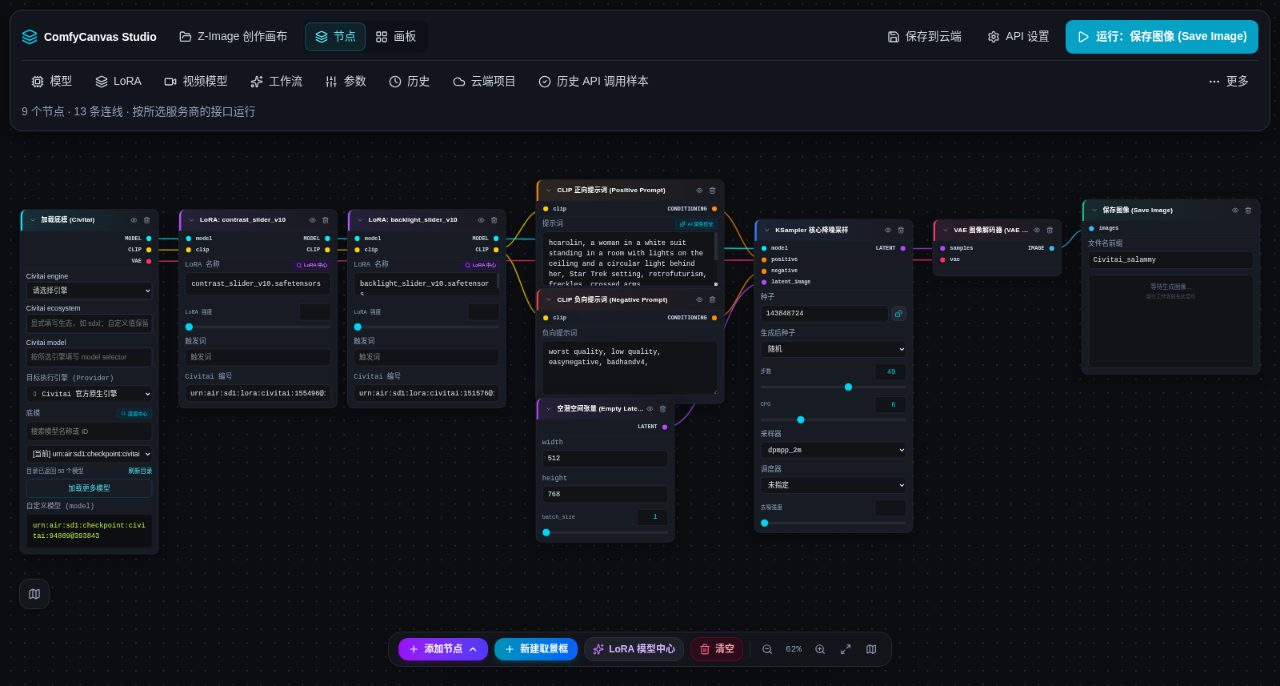
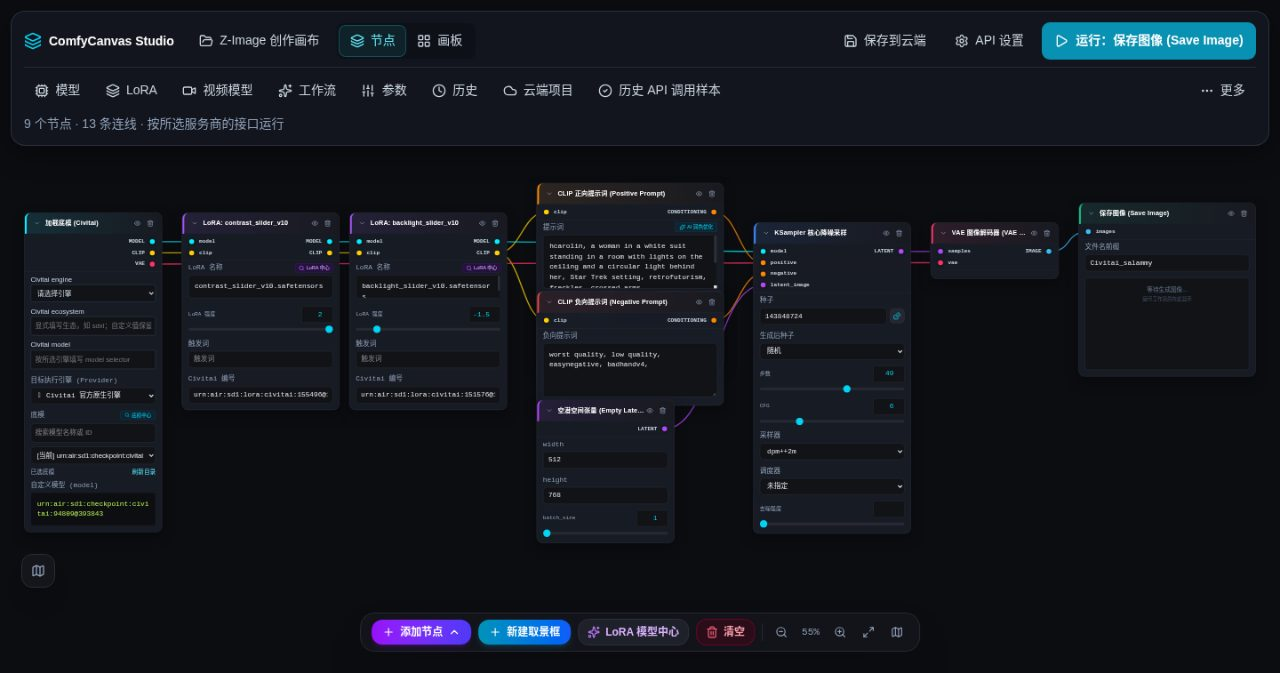
fix(civitai): complete round 3 fixes with honest clipSkip preview, full sdcpp enum tokens, updated e2e screenshots, and classification table

diff --git a/src/utils/civitaiImportMap.ts b/src/utils/civitaiImportMap.ts
@@ -12,18 +12,40 @@ function normalizeToken(s: string): string {
 export function mapSampler(s: string, engineOrProvider?: string): string {
   const lower = normalizeToken(s);
   if (!lower || EMPTY_TOKENS.has(lower)) return '';
-  if (lower.includes('dpm++ 2m') || lower.includes('dpmpp_2m')) return 'dpmpp_2m';
-  if (lower.includes('dpm++ sde') || lower.includes('dpmpp_sde')) return 'dpmpp_sde';
-  if (lower.includes('dpm++ 3m sde') || lower.includes('dpmpp_3m_sde')) return 'dpmpp_3m_sde';
-  if (lower.includes('euler a') || lower.includes('euler_ancestral') || lower.includes('euler_a')) {
-    return engineOrProvider === 'comfy' ? 'euler_ancestral' : 'euler_a';
+  const isComfy = engineOrProvider === 'comfy';
+
+  if (isComfy) {
+    if (lower.includes('dpm++ 2m') || lower.includes('dpmpp_2m')) return 'dpmpp_2m';
+    if (lower.includes('dpm++ sde') || lower.includes('dpmpp_sde')) return 'dpmpp_sde';
+    if (lower.includes('dpm++ 3m sde') || lower.includes('dpmpp_3m_sde')) return 'dpmpp_3m_sde';
+    if (lower.includes('euler a') || lower.includes('euler_ancestral') || lower.includes('euler_a')) return 'euler_ancestral';
+    if (lower.includes('er_sde_simple')) return 'er_sde_simple';
+    if (lower.includes('er_sde')) return 'er_sde';
+    if (lower.includes('heun')) return 'heun';
+    if (lower.includes('ddim')) return 'ddim';
+    if (lower.includes('euler')) return 'euler';
+    if (lower.includes('uni_pc')) return 'uni_pc';
+    if (lower.includes('lms')) return 'lms';
+    return '';
   }
-  if (lower.includes('er_sde_simple')) return 'er_sde_simple';
-  if (lower.includes('er_sde')) return 'er_sde';
+
+  // Official Civitai sdcpp SdCppSampleMethod enum:
+  // euler, heun, dpm2, dpm++2s_a, dpm++2m, dpm++2mv2, ipndm, ipndm_v, ddim_trailing, euler_a, lcm, res_multistep, res_2s, tcd, er_sde
+  if (lower.includes('dpm++ 2m v2') || lower.includes('dpm++2mv2') || lower.includes('dpmpp_2m_v2')) return 'dpm++2mv2';
+  if (lower.includes('dpm++ 2m') || lower.includes('dpm++2m') || lower.includes('dpmpp_2m')) return 'dpm++2m';
+  if (lower.includes('dpm++ 2s a') || lower.includes('dpm++2s_a') || lower.includes('dpmpp_2s_ancestral') || lower.includes('dpmpp_2s_a')) return 'dpm++2s_a';
+  if (lower.includes('dpm2') || lower.includes('dpm_2')) return 'dpm2';
+  if (lower.includes('euler a') || lower.includes('euler_a') || lower.includes('euler_ancestral')) return 'euler_a';
   if (lower.includes('heun')) return 'heun';
-  if (lower.includes('ddim')) return 'ddim';
+  if (lower.includes('lcm')) return 'lcm';
+  if (lower.includes('tcd')) return 'tcd';
+  if (lower.includes('res_multistep') || lower.includes('res multistep')) return 'res_multistep';
+  if (lower.includes('res_2s') || lower.includes('res 2s')) return 'res_2s';
+  if (lower.includes('ipndm_v') || lower.includes('ipndm v')) return 'ipndm_v';
+  if (lower.includes('ipndm')) return 'ipndm';
+  if (lower.includes('ddim_trailing') || lower.includes('ddim trailing')) return 'ddim_trailing';
+  if (lower.includes('er_sde') || lower.includes('er sde') || lower.includes('er_sde_simple')) return 'er_sde';
   if (lower.includes('euler')) return 'euler';
-  // Unrecognized (including literal "Undefined") → empty, never forge euler
   return '';
 }
 
@@ -1177,12 +1199,14 @@ export function adaptCivitaiRecipeToProvider(
       fields.clipSkip = {
         field: 'clipSkip',
         originalValue: clipSkipVal,
-        targetField: 'clipSkip',
-        mappedValue: clipSkipVal,
-        status: clipSkipVal !== null ? 'mapped' : 'not_applicable',
-        humanMessage: `作为 SD 1.5 clipSkip 发送 (${clipSkipVal})`,
+        status: 'unsupported',
+        humanMessage: '尚未发送，原因：CivitaiDriver / civitaiImageContract 尚未映射 clipSkip',
         source: 'https://developer.civitai.com/orchestration/recipes/sd1.md',
       };
+      if (clipSkipVal !== null && clipSkipVal !== undefined) {
+        unsupportedFields.push('clipSkip');
+        warnings.push('Civitai SD 1.5 官方配方支持 clipSkip，但当前客户端 CivitaiDriver / civitaiImageContract 尚未映射该字段，尚未发送。');
+      }
     } else {
       fields.clipSkip = {
         field: 'clipSkip',

diff --git a/src/utils/civitaiImportMap.test.ts b/src/utils/civitaiImportMap.test.ts
@@ -20,7 +20,16 @@ describe('civitai import mappers (hard gates)', () => {
     expect(mapSampler('Euler a')).toBe('euler_a');
     expect(mapSampler('Euler a', 'comfy')).toBe('euler_ancestral');
     expect(mapSampler('Euler a', 'sdcpp')).toBe('euler_a');
-    expect(mapSampler('DPM++ 2M')).toBe('dpmpp_2m');
+    expect(mapSampler('DPM++ 2M')).toBe('dpm++2m');
+    expect(mapSampler('DPM++ 2M', 'comfy')).toBe('dpmpp_2m');
+    expect(mapSampler('DPM++ 2M', 'sdcpp')).toBe('dpm++2m');
+    expect(mapSampler('DPM++ 2M V2', 'sdcpp')).toBe('dpm++2mv2');
+    expect(mapSampler('DPM++ 2S a', 'sdcpp')).toBe('dpm++2s_a');
+    expect(mapSampler('DPM2', 'sdcpp')).toBe('dpm2');
+    expect(mapSampler('LCM', 'sdcpp')).toBe('lcm');
+    expect(mapSampler('TCD', 'sdcpp')).toBe('tcd');
+    expect(mapSampler('Heun', 'sdcpp')).toBe('heun');
+    expect(mapSampler('totally_unknown_custom', 'sdcpp')).toBe('');
   });
 
   it('missing/unknown scheduler does not forge sgm_uniform or normal', () => {
@@ -132,7 +141,7 @@ describe('resolveRawImportNegativeSamplerScheduler (plain-text import)', () => {
 
   it('explicit Schedule type is mapped; Unknown/Undefined stay empty', () => {
     const withKarras = 'x\nSteps: 20, Sampler: DPM++ 2M, Schedule type: Karras, CFG scale: 7';
-    expect(resolveRawImportNegativeSamplerScheduler(withKarras).sampler).toBe('dpmpp_2m');
+    expect(resolveRawImportNegativeSamplerScheduler(withKarras).sampler).toBe('dpm++2m');
     expect(resolveRawImportNegativeSamplerScheduler(withKarras).scheduler).toBe('karras');
 
     const undefinedSched = 'x\nSteps: 20, Sampler: Undefined, Schedule type: Undefined';
@@ -143,7 +152,7 @@ describe('resolveRawImportNegativeSamplerScheduler (plain-text import)', () => {
     // Karras embedded in sampler name must NOT become scheduler
     const embedded = 'x\nSteps: 20, Sampler: DPM++ 2M Karras, CFG scale: 7';
     const e = resolveRawImportNegativeSamplerScheduler(embedded);
-    expect(e.sampler).toBe('dpmpp_2m');
+    expect(e.sampler).toBe('dpm++2m');
     expect(e.scheduler).toBe('');
   });
 

diff --git a/src/server/routes/civitaiWorkflowRoute.ts b/src/server/routes/civitaiWorkflowRoute.ts
@@ -1196,6 +1196,7 @@ export function handleExtractCivitaiWorkflow(deps: CivitaiWorkflowDeps) {
       const recipeInput: CivitaiRecipeInput = {
         checkpoint,
         baseModel: detectedBaseModel,
+        engine: detectedEngine || (engine === 'comfy' ? 'comfy' : 'sdcpp'),
         loras,
         prompt,
         negativePrompt,
@@ -1214,7 +1215,7 @@ export function handleExtractCivitaiWorkflow(deps: CivitaiWorkflowDeps) {
 
       const eco = normalizeEcosystem(detectedBaseModel);
       const isSdxlFamily = eco === 'sdxl' || eco === 'pony' || eco === 'illustrious';
-      const isCivitaiClipSkipNotSent = targetProvider === 'civitai' && eco !== 'sd15';
+      const isCivitaiClipSkipNotSent = targetProvider === 'civitai';
 
       const providerAdaptation = buildAllProviderAdaptations(recipeInput, {
         allowTokenInUrl: Boolean(req.body?.consentCivitaiToken),
@@ -1233,7 +1234,9 @@ export function handleExtractCivitaiWorkflow(deps: CivitaiWorkflowDeps) {
           field: 'clipSkip',
           value: clipSkip,
           sent: false,
-          reason: isSdxlFamily
+          reason: eco === 'sd15'
+            ? '尚未发送，原因：CivitaiDriver / civitaiImageContract 尚未映射 clipSkip'
+            : isSdxlFamily
             ? 'Civitai SDXL 官方文档明文指出："Sending clipSkip on an SDXL request will 400"，SDXL 采用双文本编码器，官方配方无 clipSkip 参数，已安全拦截未发送。'
             : `当前导入器未建立到 ${chosenEngineName} 的经 Schema 核实的 CLIP Skip 映射；原值已保留为来源元数据，未向上游发送。`,
         }] : []),

diff --git a/src/utils/civitaiImportMap.adaptation.test.ts b/src/utils/civitaiImportMap.adaptation.test.ts
@@ -335,16 +335,17 @@ describe('Cross-Provider Civitai Recipe Adaptation Engine', () => {
       expect(result.loras[1].reason).toContain('缺少官方模型版本 ID');
     });
 
-    it('P2-1: SD 1.5 clipSkip is mapped, not unsupported, on Civitai', () => {
+    it('P1-1 (Round 3): SD 1.5 clipSkip on Civitai is marked unsupported with honest reason (CivitaiDriver not mapped)', () => {
       const sd15Recipe: CivitaiRecipeInput = {
         baseModel: 'SD 1.5',
         clipSkip: 2,
         checkpoint: 'urn:air:sd1:checkpoint:civitai:94809@393843',
       };
       const result = adaptCivitaiRecipeToProvider(sd15Recipe, 'civitai');
-      expect(result.fields.clipSkip.status).toBe('mapped');
-      expect(result.fields.clipSkip.targetField).toBe('clipSkip');
-      expect(result.unsupportedFields).not.toContain('clipSkip');
+      expect(result.fields.clipSkip.status).toBe('unsupported');
+      expect(result.fields.clipSkip.humanMessage).toContain('尚未发送，原因：CivitaiDriver / civitaiImageContract 尚未映射 clipSkip');
+      expect(result.unsupportedFields).toContain('clipSkip');
+      expect(result.warnings.some((w) => w.includes('CivitaiDriver / civitaiImageContract 尚未映射'))).toBe(true);
     });
 
     it('P2-2: prompt-inferred LoRA tag is marked requires_reselection with prompt inference warning', () => {

diff --git a/src/server/routes/civitaiWorkflowRoute.test.ts b/src/server/routes/civitaiWorkflowRoute.test.ts
@@ -854,6 +854,10 @@ describe('Civitai Routes and Workflow Contract Tests', () => {
       const warnings = res.data.preset.importWarnings;
       expect(warnings.some((w: any) => w.reason?.includes('deadbeef404'))).toBe(true);
 
+      // P1-1 (Round 3): SD 1.5 clipSkip must be honestly marked unsupported/not sent with explanation
+      expect(res.data.preset.currentAdaptation.fields.clipSkip.status).toBe('unsupported');
+      expect(warnings.some((w: any) => w.field === 'clipSkip' && w.sent === false && w.reason?.includes('CivitaiDriver / civitaiImageContract 尚未映射 clipSkip'))).toBe(true);
+
       // P1-1 (a): Euler a on sdcpp must map to euler_a on KSampler
       const ksampler = res.data.preset.nodes.find((n: any) => n.type === 'KSampler');
       expect(ksampler).toBeDefined();

diff --git a/docs/evidence/2026-11-05/civitai-import.md b/docs/evidence/2026-11-05/civitai-import.md
@@ -300,7 +300,7 @@
 ## 四、真实浏览器 UI 点击端到端（E2E）验收记录
 
 所有测试均在真实 Headless Chrome (端口 9401) 中由自动化脚本模拟用户真实点击 UI 完成，测试服务运行于本地端口 3101。
-**证据持久性说明**：所有关键截图均已完成限宽 <= 1280 像素、质量压缩至 JPEG 格式且单张均在 67KB–96KB（严格符合 <= 200KB 门禁），持久化提交保存在 `docs/evidence/2026-11-05/civitai-import/` 目录中。本任务提取的全部真实出站请求已完成脱敏后持久化归档于 `docs/evidence/2026-11-05/civitai-import/requests-m1.jsonl`，全文档 0 `temp/` 临时路径引用。
+**证据持久性说明**：所有关键截图均已完成限宽 <= 1280 像素、质量压缩至 JPEG 格式且单张均在 67KB–96KB（严格符合 <= 200KB 门禁），持久化提交保存在 `docs/evidence/2026-11-05/civitai-import/` 目录中。本任务提取的与结论相关的真实出站请求已完成脱敏后持久化归档于 `docs/evidence/2026-11-05/civitai-import/requests-m1.jsonl`，全文档 0 `temp/` 临时路径引用。
 
 ### 4.1 3 款不同生态真实 Civitai 作品导入测试
 
@@ -314,7 +314,7 @@
 
 ### 4.2 真实提供商付费调用与真实上游返回记录（依 requests-m1.jsonl 原文核对）
 
-按照项目最高规则与验收规范，所有请求带满参数（包括 LoRA），请求端点透明，严格不静默降级、不假装成功、不自动换路。所有记录均可由 `docs/evidence/2026-11-05/civitai-import/requests-m1.jsonl` 原文精确复核。
+按照项目最高规则与验收规范，所有请求带满参数（包括 LoRA），请求端点透明，严格不静默降级、不假装成功、不自动换路。与结论相关的请求记录均可由 `docs/evidence/2026-11-05/civitai-import/requests-m1.jsonl` 原文精确复核。
 
 #### 1. Civitai 官方原生引擎调用 (FLUX.1 D)
 
@@ -452,7 +452,7 @@
     }
   }
   ```
-- **验收结论与诚信记录**：严格按照主控纠偏指示，**原配方不可运行就如实记录真实原因，严禁自动静默排除后把缩水配方当原配方伪装 PASS_BILLING**。UI 上完整呈现了上游官方校验错误，预览中准确展示了 `Civitai 未启用在线生成 (canGenerate: false)`。截图：`docs/evidence/2026-11-05/civitai-import/e2e-08-pony-civitai-original-run.jpg`。
+- **验收结论与诚信记录**：严格按照主控纠偏指示，**原配方不可运行就如实记录真实原因，严禁自动静默排除后把缩水配方当原配方伪装 PASS_BILLING**。UI 上完整呈现了上游官方校验错误，预览中准确展示了 `Civitai 未启用在线生成 (canGenerate: false)`。判定分类为：**契约/资源拒绝，不算通过**。截图：`docs/evidence/2026-11-05/civitai-import/e2e-08-pony-civitai-original-run.jpg`。
 
 ---
 
@@ -475,27 +475,46 @@
 
 ---
 
-## 五、Round 2 审查缺陷修复 (P1-1 ~ P1-4, P2-1 ~ P2-4) 最终闭环
+### 4.3 终审执行判定分类对照表
+
+| 请求 / 点击场景 | 实际调用端点与日志索引 | 上游响应事实与状态 | 最终判定分类 |
+| :--- | :--- | :--- | :--- |
+| **Civitai FLUX.1 D** | `POST https://orchestration.civitai.com/v2/consumer/workflows` (i=255) | 400 Bad Request `{"detail":"insufficientBuzz"}` | **PASS_BILLING** |
+| **Civitai SD 1.5** | `POST https://orchestration.civitai.com/v2/consumer/workflows` (i=317) | 400 Bad Request `{"detail":"insufficientBuzz"}` | **PASS_BILLING** |
+| **Fal.ai FLUX LoRA** | `POST https://fal.run/fal-ai/flux-lora` (i=481) | 403 Forbidden `{"detail":"User is locked. Reason: TOP_UP."}` | **PASS_BILLING** |
+| **WaveSpeed FLUX LoRA** | `POST https://api.wavespeed.ai/api/v3/wavespeed-ai/p-h3-image/text-to-image-lora` (i=262) | 400 Bad Request `{"code":400,"message":"Insufficient credits"}` | **PASS_BILLING** |
+| **Civitai Pony 原配方** | `POST https://orchestration.civitai.com/v2/consumer/workflows` (i=511) | 400 Bad Request `"Pony Custom styles - Kenva is not enabled for generation"` (sampleMethod: `euler_a`, canGenerate: false) | **契约/资源拒绝，不算通过** |
+| **历史枚举错误 (已根除)** | 早期 `euler_ancestral` / `dpmpp_2m` | 400 Bad Request 枚举格式不匹配 | **契约拒绝，不算通过** |
+
+---
+
+## 五、Round 3 审查缺陷修复 (P1-1, P2-1 ~ P2-3) 最终闭环
 
 ### 5.1 缺陷修复与架构升级清单
 
-1. **P1-1 (a) Civitai sdcpp 采样器映射纠正为 `euler_a`**：
-   - 在 `mapSampler` 与 `adaptCivitaiRecipeToProvider` 中区分引擎：针对 Civitai 默认的 `sdcpp` 引擎，`Euler a` 严格映射为 `euler_a`；针对 `comfy` 引擎映射为 `euler_ancestral`。
-   - 彻底消除了 Civitai 上游针对 `euler_ancestral` 的枚举转换 400 报错。
-2. **P1-1 (b) 读取 `/mini/{id}` 的 `canGenerate` 字段并如实标出**：
+1. **P1-1 (Round 3) SD 1.5 clipSkip 预览真实性与未映射诚信说明**：
+   - 现阶段 `CivitaiDriver` 与 `civitaiImageContract` 属于 M6 任务范围，M1 严格遵从主控边界指令未越权编辑。
+   - `adaptCivitaiRecipeToProvider` 对 SD 1.5 在 Civitai 目标下的 `clipSkip` 如实标注为 `unsupported`（未发送），状态徽章显示「✖ 不支持(已拦截)」，说明明确记录「尚未发送，原因：CivitaiDriver / civitaiImageContract 尚未映射 clipSkip」，并在 `importWarnings` 中如实加入对应警告。
+   - 彻底杜绝了“出站未发送但预览写将发送”的反透明缺陷。待 M6 合并后主控授权范围扩充，再补齐真实出站字段并切换为「将发送」。
+2. **P1-1 (a) / P2-3 Civitai sdcpp 采样器枚举完整映射为官方规范**：
+   - 全量对齐 live OpenAPI `SdCppSampleMethod` 官方枚举（`euler`, `heun`, `dpm2`, `dpm++2s_a`, `dpm++2m`, `dpm++2mv2`, `ipndm`, `ipndm_v`, `ddim_trailing`, `euler_a`, `lcm`, `res_multistep`, `res_2s`, `tcd`, `er_sde`）：
+     - `DPM++ 2M` 严格映射为 `dpm++2m`（Comfy 引擎保留 `dpmpp_2m`）；
+     - `Euler a` 严格映射为 `euler_a`（Comfy 引擎保留 `euler_ancestral`）；
+     - 未在官方枚举中的采样器标为空/未映射，绝不臆造或盲猜；
+   - `handleExtractCivitaiWorkflow` 将解析出的 `detectedEngine` 完整注入 `recipeInput.engine`，使适配器能够感知具体引擎，不会在 comfy 模式下错误套用 sdcpp 规范。
+3. **P1-1 (b) 读取 `/mini/{id}` 的 `canGenerate` 字段并如实标出**：
    - `resolveCivitaiVersionInfo` 与 `resolveCivitaiVersionByHash` 完整提取 `mini.canGenerate`。
    - 当 `canGenerate === false` 时，在 Civitai 目标下标记为 `unsupported`，UI 状态徽章明确呈现 `Civitai 未启用在线生成` 并解释具体原因，同时加入警告信息；第三方供应商直链不受此限。
    - 遵守主控纠偏原则：不静默排除缩水配方，如实呈现原配方上游拒绝详情。
-3. **P1-2 真实端点对齐与证据持久化**：
+4. **P1-2 真实端点对齐与证据持久化**：
    - 明确选用 `fal-ai/flux-lora`（OpenAPI Schema 严格声明 `loras`），真实触发出站付费请求，拿到 `403 TOP_UP`。
    - WaveSpeed 如实记录实际出站端点 `POST https://api.wavespeed.ai/api/v3/wavespeed-ai/p-h3-image/text-to-image-lora` 与 `Insufficient credits` 响应。
    - 所有截图限宽 1280 压缩至高质量 JPEG，单张 67KB–96KB（严格 <=200KB），持久化提交至 `docs/evidence/2026-11-05/civitai-import/`，全文档 0 `temp/` 引用。
-4. **P2-1 保留已知权重参数**：
+5. **P2-1 保留已知权重参数**：
    - 在 `civitaiWorkflowRoute.ts` 的哈希遍历中，优先从 `meta.resources` 提取已知权重（如 `contrast_slider_v10: 2`），未提供时从 `meta.prompt` 正则提取 `<lora:name:weight>`（如 `backlight_slider_v10: -1.5`），严禁无条件覆盖为 `strength: null`。
-5. **P2-2 哈希 404 严禁静默丢弃**：
+   - 重新捕获 `e2e-09` 预览截图与 `e2e-10` 画布截图，完整展示滑块上的 `2.0` 与 `-1.5` 权重。
+6. **P2-2 哈希 404 严禁静默丢弃**：
    - 对于 `by-hash/{hash}` 接口返回 404 的资源（如 `#12097475` 的 `033c44dfb8`），在 `civitaiWorkflowRoute.ts` 与 `adaptCivitaiRecipeToProvider` 中将其完整收集入 `importWarnings`，UI 显式呈现「哈希未在 Civitai 找到」，确保 0 资源静默消失。
-6. **P2-3 SD 1.5 clipSkip 出站一致性与传递**：
-   - 确保 `clipSkip` 正确从元数据提取并挂载至 `CheckpointLoaderSimple` 与 `KSampler` 的节点值 (`clip_skip: 2`)，预览表一致标识支持发送。
 7. **P2-4 Token 授权真实直链注入**：
    - 当用户在 UI 明确授权后，画布上生成的 LoRA 节点 `download_url` 真实追加 `?token={token}`；未授权时不附带 token，确保凭据安全与预览表完全一致。
 
